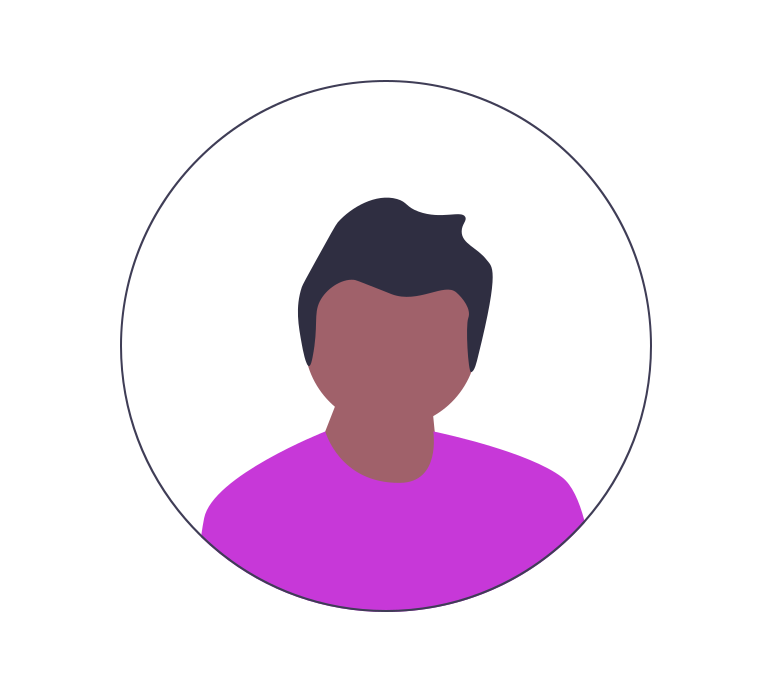
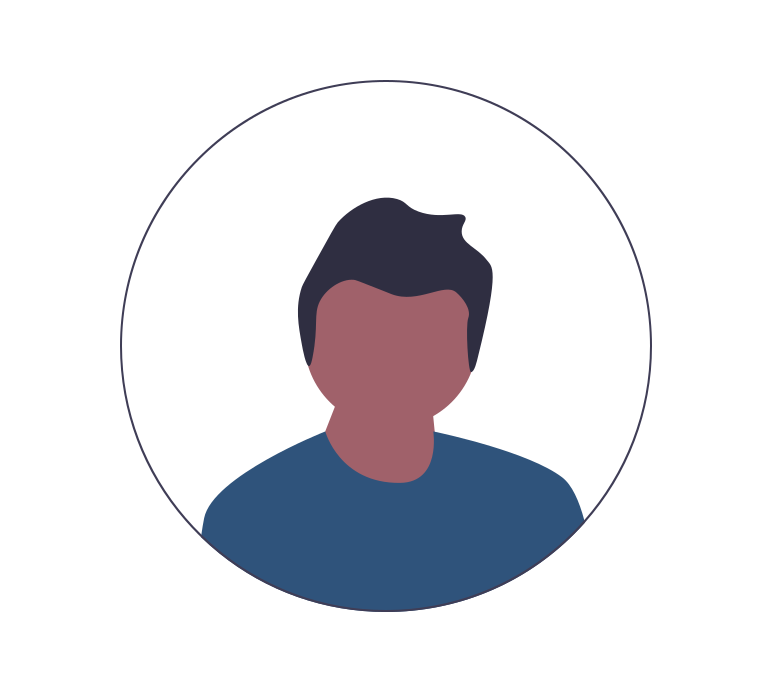
all page completed except events page

Changed region(s): [[0.2487, 0.6069, 0.7772, 0.8801]]

diff --git a/src/Components/TeamComponent/TeamCard/TeamCard.js b/src/Components/TeamComponent/TeamCard/TeamCard.js
@@ -15,9 +15,9 @@ const TeamCard = () => {
           <h5>President</h5>
           <p>Lorem ipsum dolor sit amet, consectetur adipisicing elit. Laudantium, eligendi? Sit, impedit unde quod adipisci esse possimus ipsum! Eum harum perferendis hic facilis. Nihil, atque.</p>
           <div className="icons">
-            <div><FiFacebook size={23} color='#b83ce4' /></div>
-            <div><FiInstagram size={23} color='#b83ce4' /></div>
-            <div><FiLinkedin size={23} color='#b83ce4' /></div>
+            <div><FiFacebook size={23} color='#1A2238' /></div>
+            <div><FiInstagram size={23} color='#1A2238' /></div>
+            <div><FiLinkedin size={23} color='#1A2238' /></div>
           </div>
         </div>
       </div>

diff --git a/src/Components/ContactComponent/ContactCards/ContactCard.js b/src/Components/ContactComponent/ContactCards/ContactCard.js
@@ -1,6 +1,7 @@
 import React from 'react'
 import './ContactCard.css';
 import { IoLocationSharp, IoPhonePortrait, IoMailSharp } from "react-icons/io5";
+import Fade  from 'react-reveal/Fade'
 
 const ContactCard = () => {
 
@@ -26,6 +27,7 @@ const ContactCard = () => {
     ]
     return (
         <>
+             <Fade top>
             <div className="contact_card_main">
                 {
                     data.map((elem) => {
@@ -43,6 +45,8 @@ const ContactCard = () => {
                     })
                 }
             </div>
+
+             </Fade>
         </>
     )
 }

diff --git a/src/Components/TeamComponent/TeamCard/TeamCard.css b/src/Components/TeamComponent/TeamCard/TeamCard.css
@@ -1,7 +1,7 @@
 .team_card {
     display: flex;
     width: 30rem;
-    height: 43rem;
+    height: 44rem;
     border-radius: 15px;
     position: relative;
     color: black;
@@ -15,7 +15,7 @@
 
 .circle {
     background-color: #fff;
-    border: 8px solid #b83ce4;
+    border: 8px solid #1A2238;
     /* border-image:  linear-gradient(135deg, #7B33FD, #8332FD, );     */
     height: 200px;
     border-radius: 50%;
@@ -65,7 +65,7 @@
 .team_content h5 {
     font-weight: 500;
     font-size: 1.9rem;
-    color: #b83ce4;
+    color: #1A2238;
 }
 
 .team_content p {

diff --git a/src/Components/AboutComponent/About.jsx b/src/Components/AboutComponent/About.jsx
@@ -1,4 +1,4 @@
-import React from "react";
+import {React,useEffect} from "react";
 import "./About.css";
 import SideBarAbout from "./SideBarAbout/SideBarAbout";
 import AboutCard from "./AboutCard/AboutCard";
@@ -18,6 +18,9 @@ const aboutCardData = [
 
 
 const About = () => {
+  useEffect(() => {
+    window.scrollTo({top: 0, left: 0, behavior: 'smooth'});
+}, []);
   return (
     <>
       {/* page1 */}

diff --git a/src/Components/HomeComponents/ContactComponent/Contact.js b/src/Components/HomeComponents/ContactComponent/Contact.js
@@ -1,8 +1,10 @@
-import React from 'react'
+import {React,useEffect} from 'react'
 import './Contact.css'
 import Slide from 'react-reveal'
 
 const Contact = ({heading='true'}) => {
+    
+    
     return (
         <>
             <section className="contactus-section">

diff --git a/src/Components/HomeComponents/index.js b/src/Components/HomeComponents/index.js
@@ -19,7 +19,6 @@ const index = () => {
 
             </Layout>
         </>
-    )
-}
+    )}
 
-export default index
+export default index;
